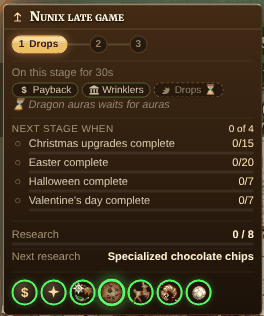
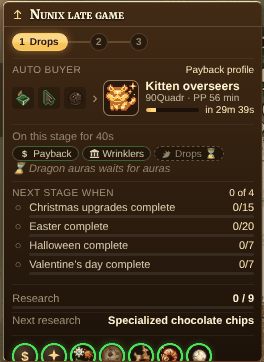
README: Manager widget with its Auto buyer row (#91)
The Manager widget picture and bullet show its new Auto buyer row (#88).

Claude-Session: https://claude.ai/code/session_01ALSqfrVYPdvMWWjAoC9JVy

Changed region(s): [[0.0, 0.0, 1.0, 0.769], [0.0, 0.7975, 1.0, 1.0], [0.7879, 0.3987, 0.8182, 0.4557]]

diff --git a/README.md b/README.md
@@ -132,7 +132,7 @@ the page. [See every page with a screenshot](#pages).
 <td width="50%" valign="top">
 <b>Managers</b><br>
 <img src="docs/readme/managers.png" alt="The Managers page: the Drops stage's tab with its macros, settings and profiles, and the macro library" width="100%">
-<ul><li>A manager plays an ascension in stages: stage 1 sets things up, each later stage changes only what it needs, and moves on when a condition holds</li><li>Nunix late game is built in, in three stages: season drops, reindeer, then golden cookie combos (duplicate it to make your own; Revert to default undoes your edits)</li><li>The Manager widget shows the stage, what moves it on, the numbers it watches and the macros at work</li><li>Edit each stage in its own tab, with a library of macros to switch on or off beside it, or edit the code the stages write</li></ul>
+<ul><li>A manager plays an ascension in stages: stage 1 sets things up, each later stage changes only what it needs, and moves on when a condition holds</li><li>Nunix late game is built in, in three stages: season drops, reindeer, then golden cookie combos (duplicate it to make your own; Revert to default undoes your edits)</li><li>The Manager widget shows the stage, what moves it on, the numbers it watches, the macros at work, and the Auto buyer's last three buys and next one</li><li>Edit each stage in its own tab, with a library of macros to switch on or off beside it, or edit the code the stages write</li></ul>
 <img src="docs/readme/manager-widget.png" alt="The Manager widget" width="50%">
 </td>
 <td width="50%" valign="top">

diff --git a/changes/readme-manager-buyer-row.md b/changes/readme-manager-buyer-row.md
@@ -1,0 +1,4 @@
+---
+bump: patch
+---
+- **README:** the Manager widget picture and bullet show its new Auto buyer row.
